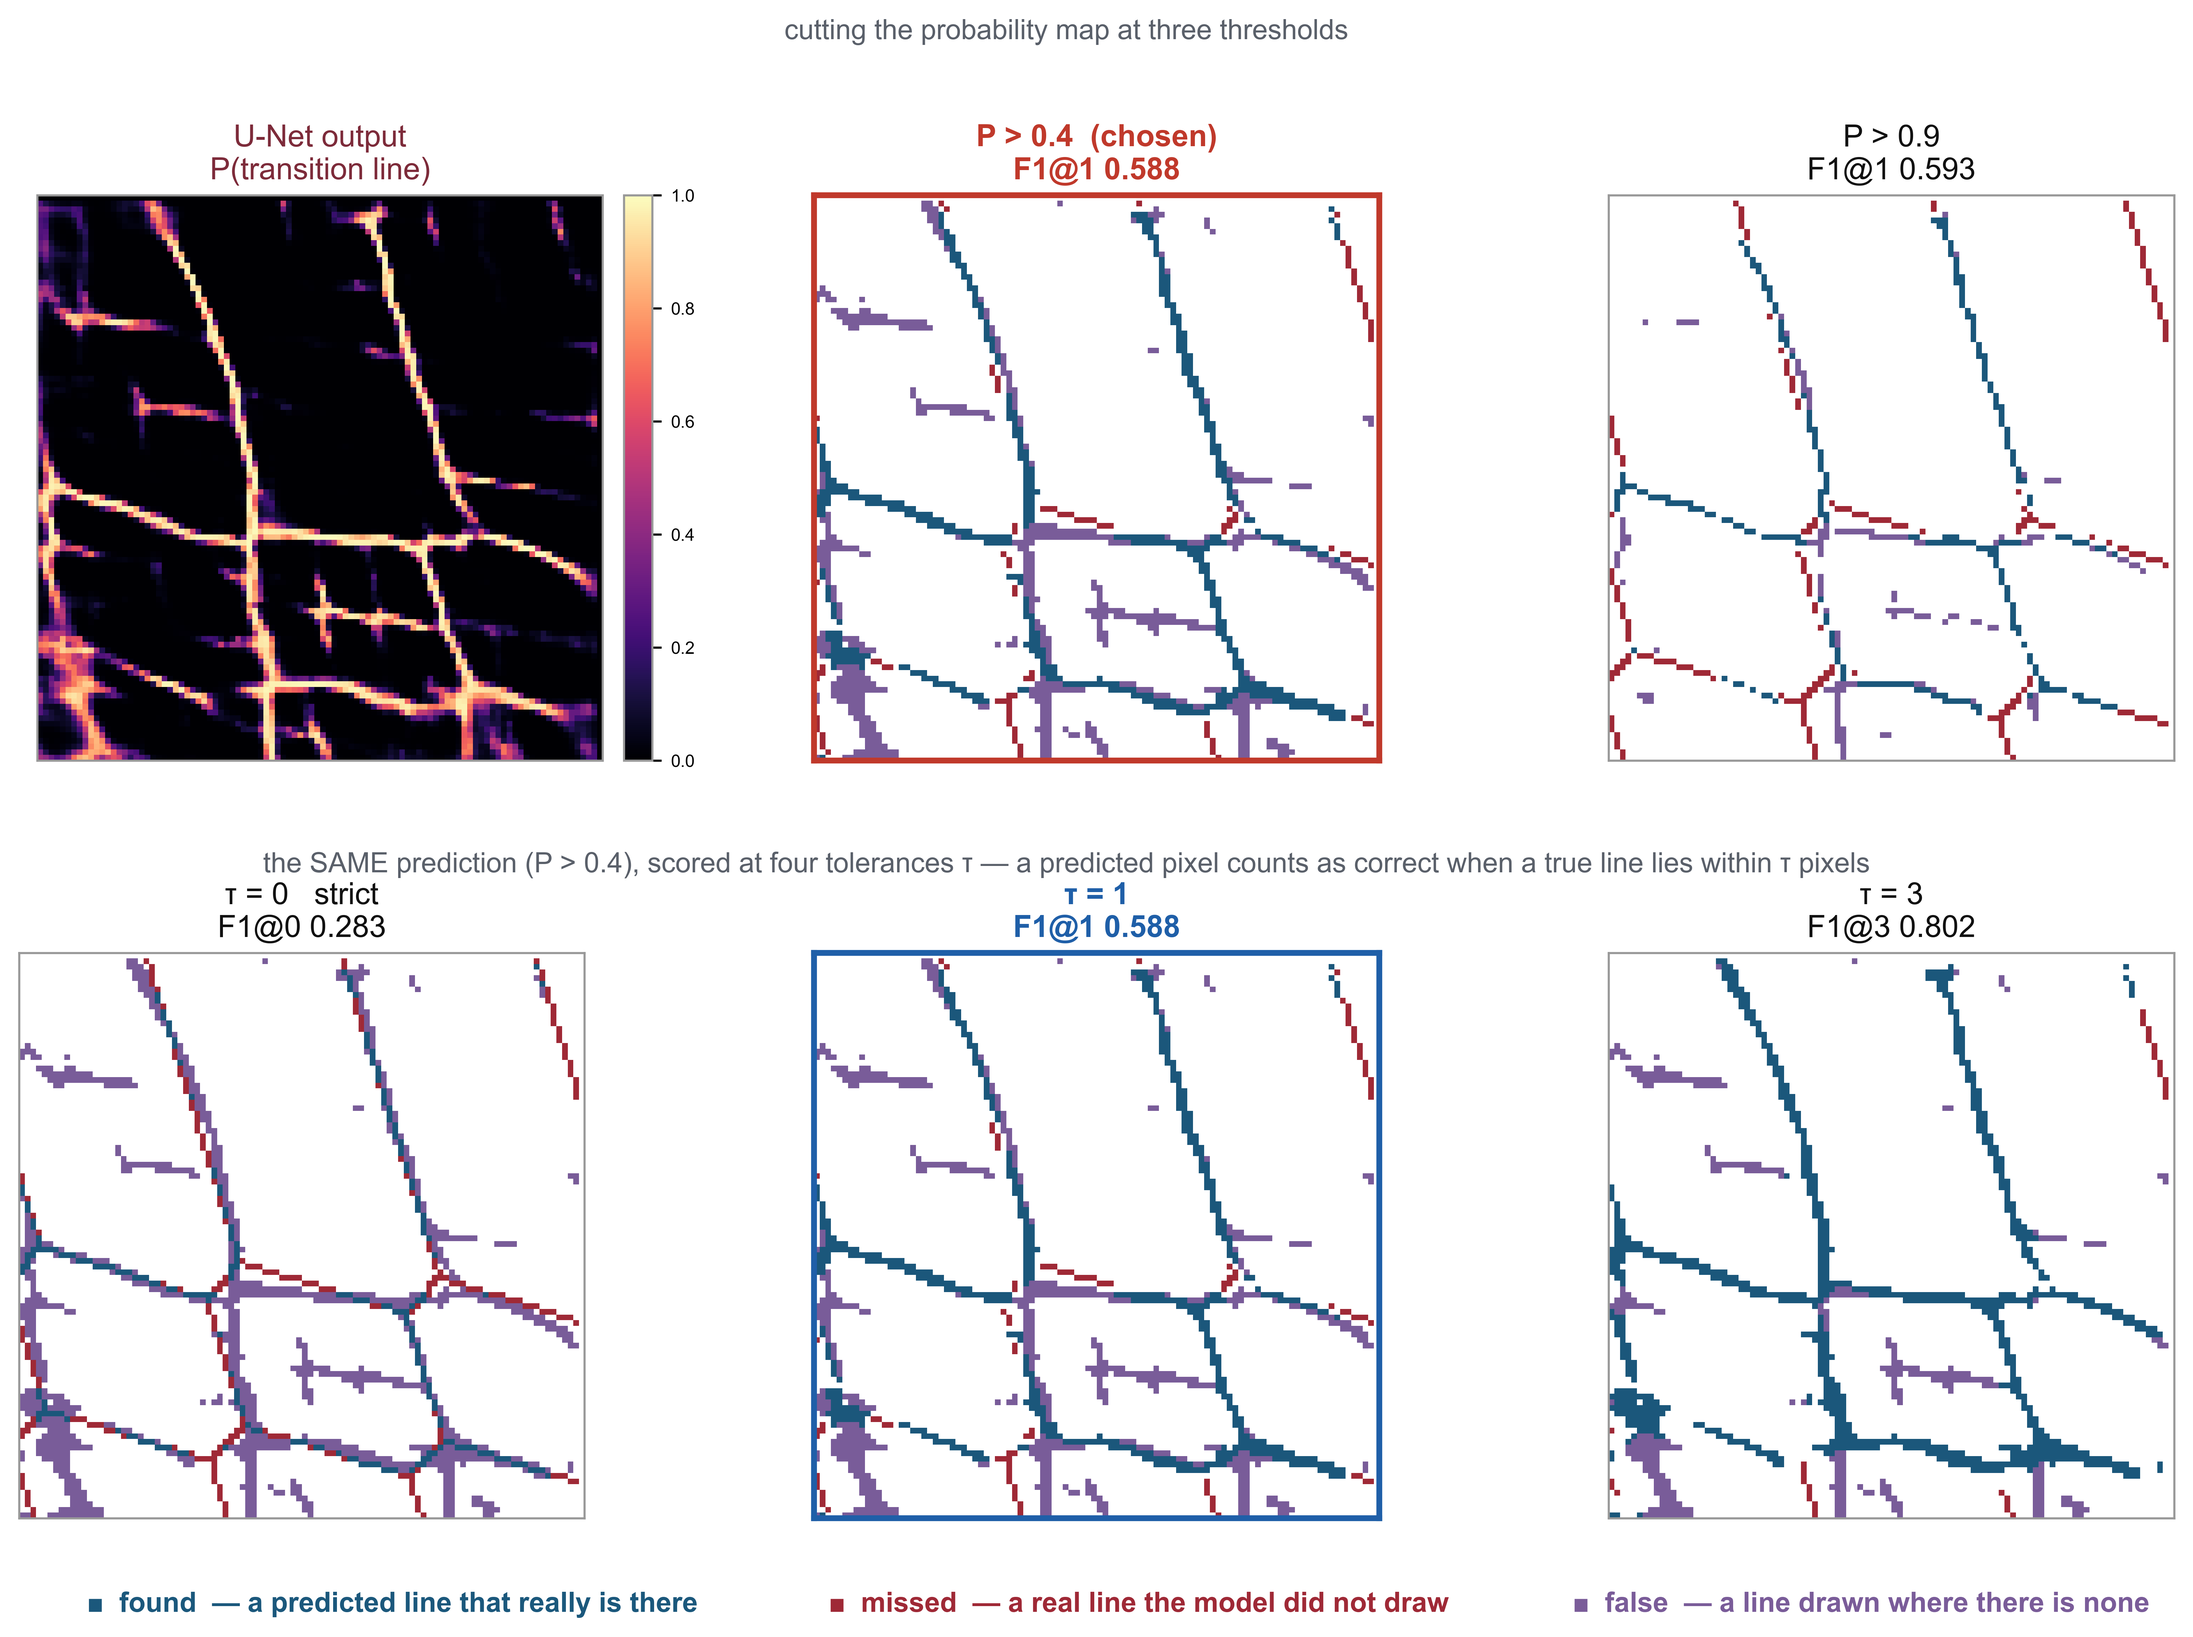
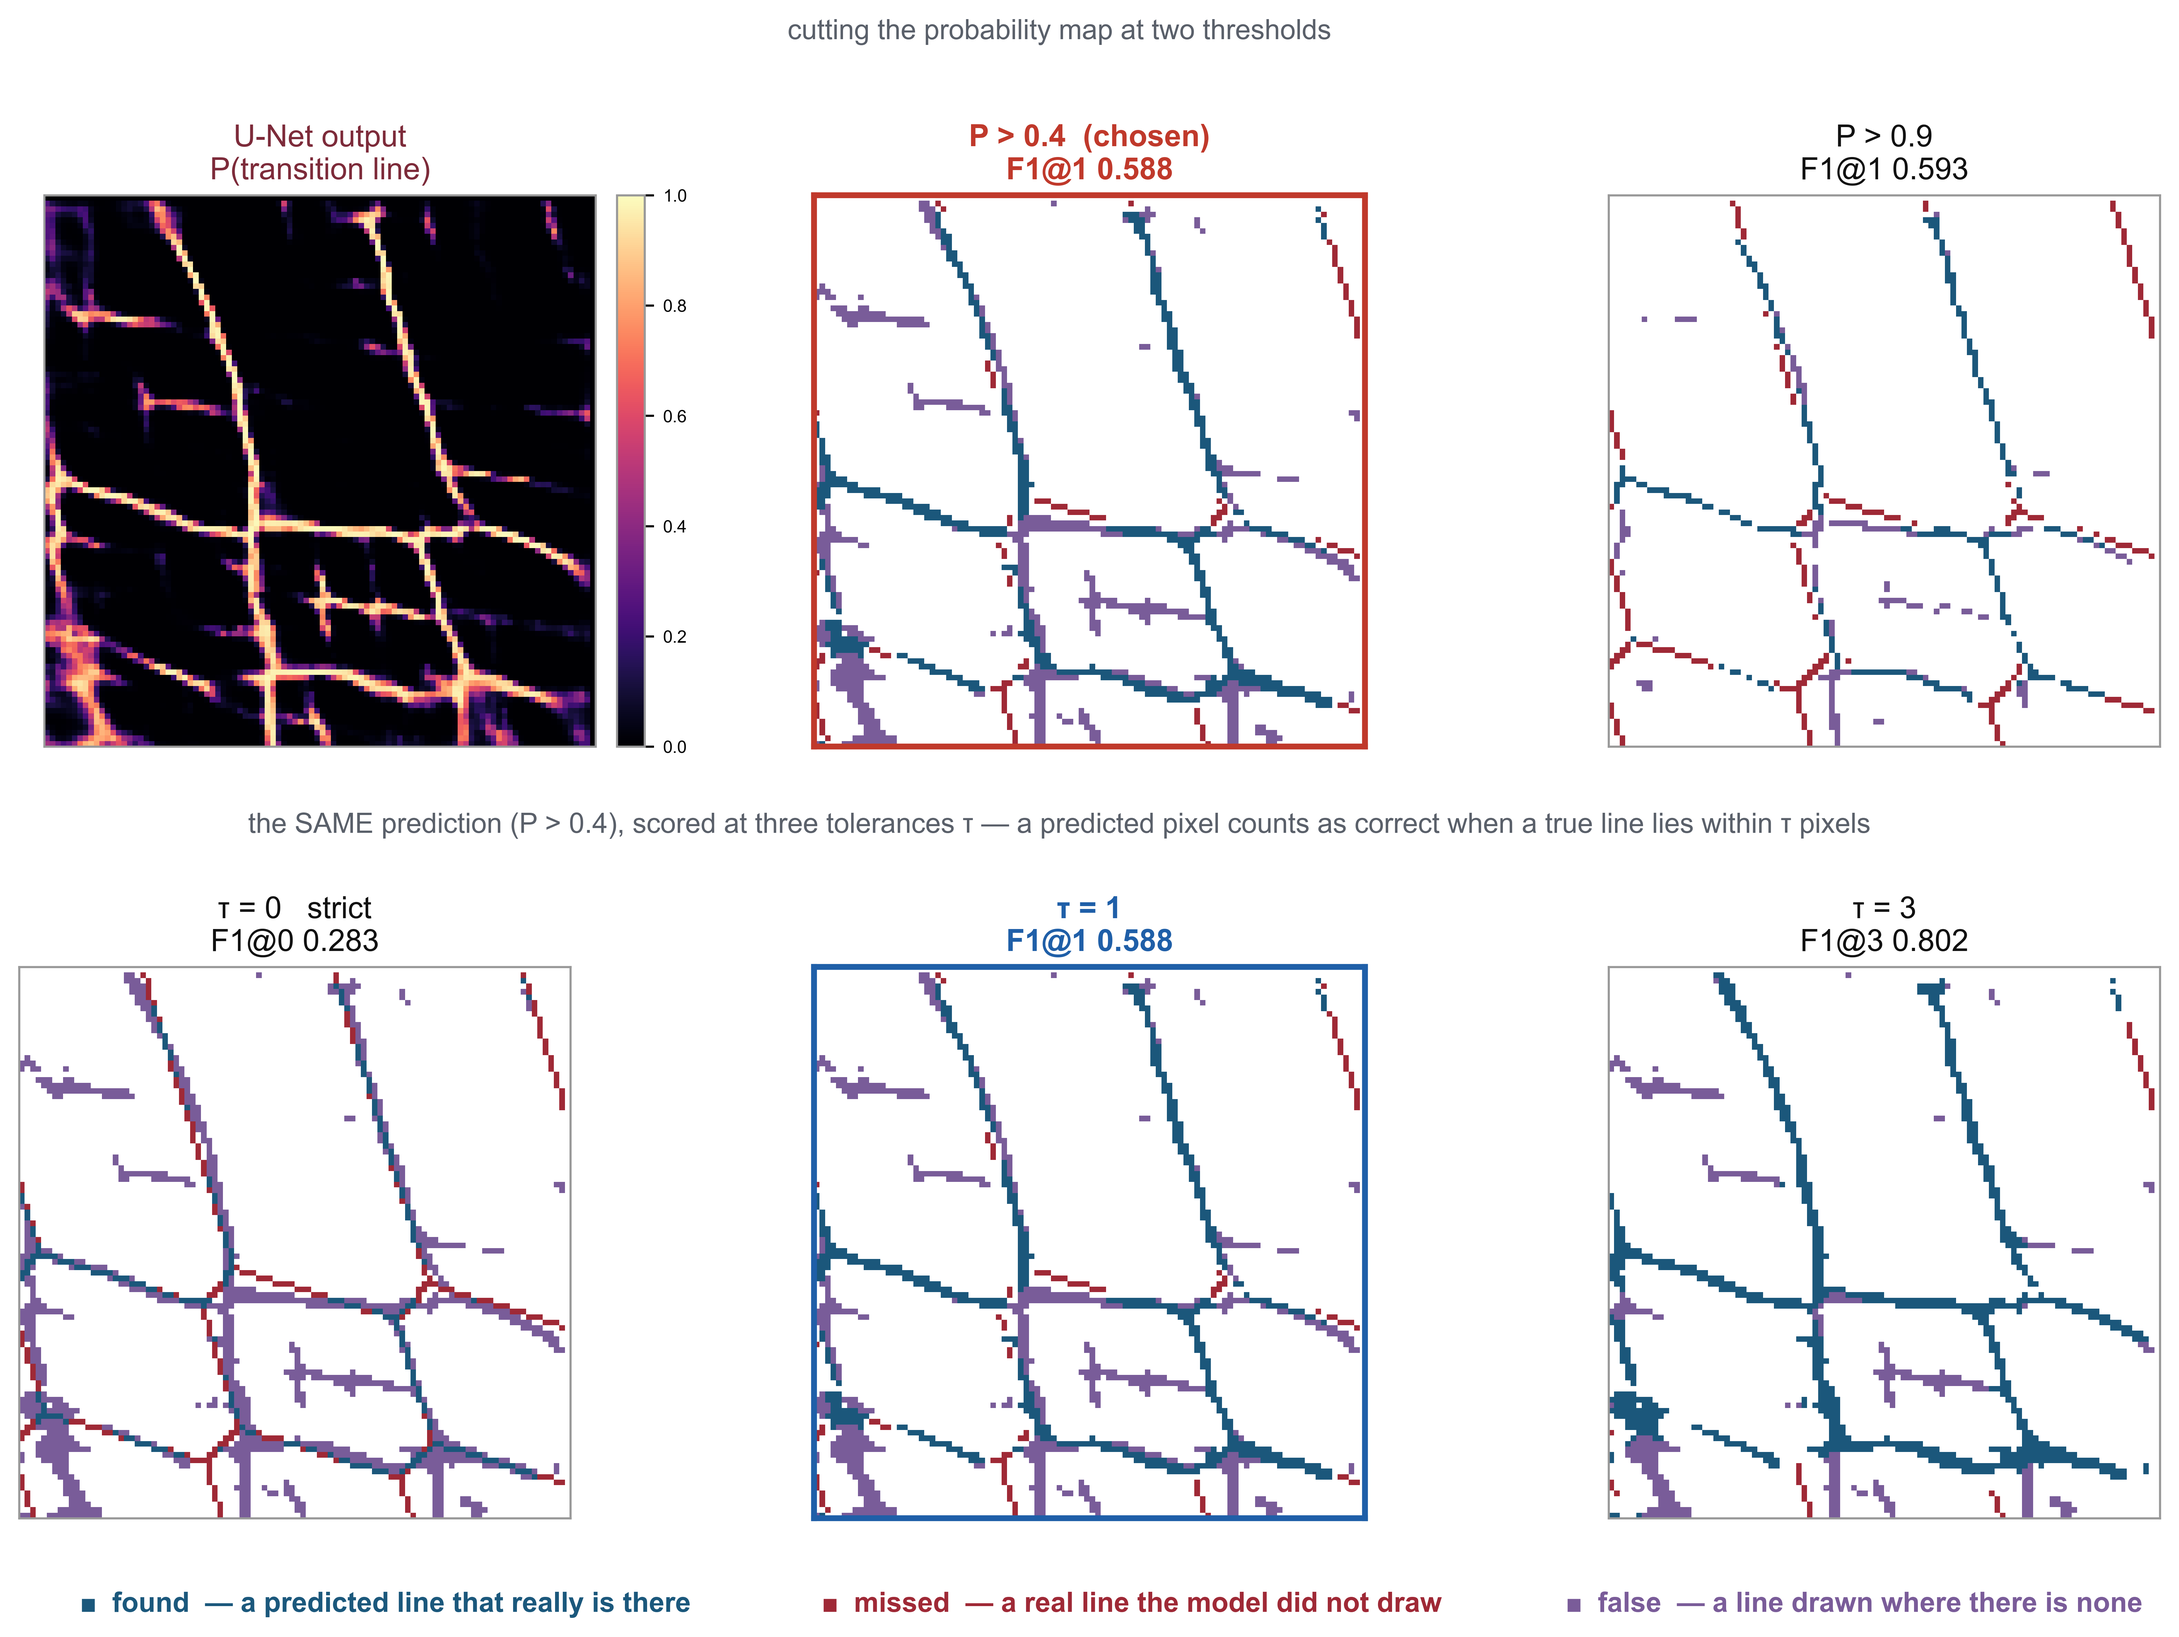
added some

diff --git a/paper_figures/make_figures.py b/paper_figures/make_figures.py
@@ -286,7 +286,7 @@ def fig_probability_to_lines(device_index=RESULT_DEVICE, ladder=LADDER):
     fig = plt.figure(figsize=(12.6, 8.6))
     # three panels per row, so each is as large as the slide allows
     gs = fig.add_gridspec(2, 3, height_ratios=[1.0, 1.0],
-                          hspace=0.34, wspace=0.12,
+                          hspace=0.40, wspace=0.12,
                           left=0.035, right=0.99, top=0.88, bottom=0.075)
 
     def blank(ax):
@@ -335,7 +335,7 @@ def fig_probability_to_lines(device_index=RESULT_DEVICE, ladder=LADDER):
             for sp in ax.spines.values():
                 sp.set_color("#c0392b"); sp.set_linewidth(2.2)
 
-    # ── row 2: ONE prediction, scored at four tolerances ─────────────────
+    # ── row 2: ONE prediction, scored at three tolerances ─────────────────
     pred = p > thr
     for k, tau in enumerate(TAUS):
         m = tolerant_f1(pred, Yt, float(tau))
@@ -351,10 +351,10 @@ def fig_probability_to_lines(device_index=RESULT_DEVICE, ladder=LADDER):
             for sp in ax.spines.values():
                 sp.set_color("#1f5fa8"); sp.set_linewidth(2.2)
 
-    fig.text(0.5, 0.975, "cutting the probability map at three thresholds",
+    fig.text(0.5, 0.975, "cutting the probability map at two thresholds",
              ha="center", fontsize=10.5, color=MUT)
-    fig.text(0.5, 0.468, "the SAME prediction (P > "
-             f"{thr:g}), scored at four tolerances τ — a predicted pixel "
+    fig.text(0.5, 0.492, "the SAME prediction (P > "
+             f"{thr:g}), scored at three tolerances τ — a predicted pixel "
              "counts as correct when a true line lies within τ pixels",
              ha="center", fontsize=10.5, color=MUT)
     for _x, _t, _c in (
